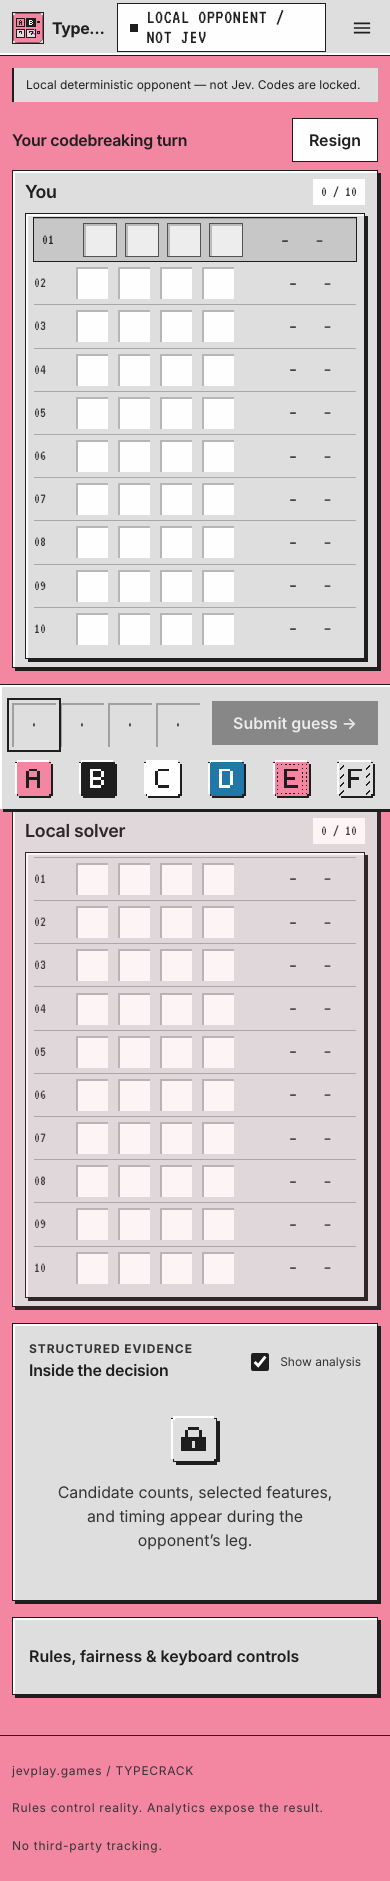
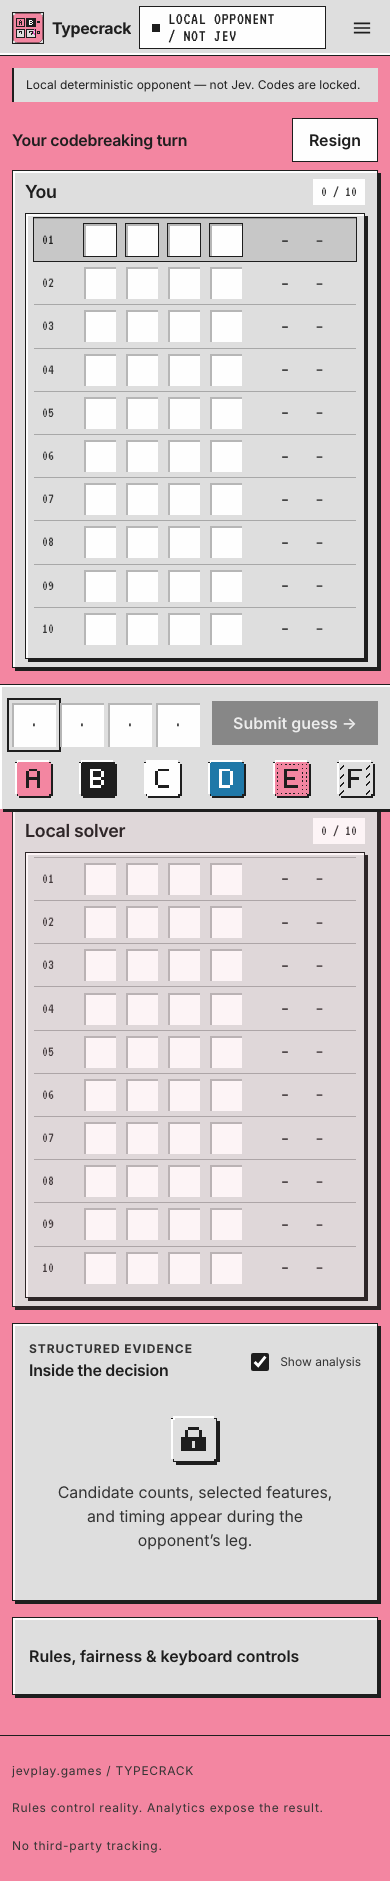
Retake screenshots, remeasure static size, note the review fixes
reports/screenshots/*.png are retaken from a real local run (dev server
on a private port with a scratch DB, local opponent, Playwright
Chromium, full pages scrolled to the top) after the label and layout
fixes; desktop-analytics previously showed "jev · normal".

reports/static-size.json is remeasured (Node zlib, level 9) and now also
lists public/labels.js: JS gzip 24,392 B (was 23,119), CSS 6,966 B (was
6,712). CHANGELOG describes the review fixes under Unreleased.

diff --git a/CHANGELOG.md b/CHANGELOG.md
@@ -2,6 +2,8 @@
 
 ## Unreleased
 
+Final review fixes (issues #13 and #14). Local practice is never presented as Jev: the match-analytics outcome card printed the raw difficulty key and finish reason, so a match against the local solver read "jev · normal"; it now names who played, from the replay's own opponent moves (for example "Local solver, not Jev · Minimax-filtered · Completed"), and the record tables show readable difficulty and result labels instead of `jev` and `jev_break` (`public/labels.js`, `tests/opponent-labels.test.mjs`). Stored keys, exports and cohorts are unchanged. The setup heading and the opponent's board monogram follow the actual opponent. Layout: the result plaque no longer squeezes its text to one word per line beside its buttons, and its text is ink (the muted subtitle was 3.7:1 on the magenta win plaque); the three-column layout fits 1024px instead of scrolling sideways, keeps both boards the same width with every row aligned, and leaves a gap above the evidence panel; the board column header no longer runs "GUESS" into "CODE"; empty guess slots are filled wells; on phones the setup panel leads after New match and the header keeps the game title whole beside the provenance badge. The README banner's CHOICE window now selects the guess being typed (AEBF) and its alt text describes the canonical robot. The browser suite follows the auto-start flow and passes again. Screenshots retaken; static size remeasured.
+
 New pink/ink pixel art (issue #14). The six code symbols A–F are now square pixel keycaps with the letter drawn in the art. Each fill differs in lightness or pattern (pink, ink, paper, blue, pink with dots, grey with hatching), so colour is never the only cue. Blue on D is the only accent colour, and it stays out of the mark, icons, badges and banners, and every letter reaches at least 4.5:1 against its keycap. The hidden code is a padlocked grey keycap. Exact and near feedback are a filled and a hollow ink square. The art replaces the earlier round glossy pegs and black and white key pegs. The app mark, favicon, apple-touch icon and win/draw/loss badges are redrawn as well. The README banner is now `assets/banner.png` (2560×840, replacing `assets/banner.jpg`); `public/brand/og.png` and a new `assets/social-preview.png` are rendered from HTML sources in `assets/src/`. The overlay letter on symbol keycaps is now hidden visually but kept for screen readers. Entropy-chart axis labels are larger below 600px. The screenshots in `reports/screenshots/` were retaken from a real local run.
 
 Renamed Mastermind to **Typecrack** under the jevplay.games brand (issue #13). Display name, page title and meta, header wordmark (`jevplay.games`), footer, Discord command text and launch button, export filenames (`typecrack-*`), package and Worker name (`jev-typecrack`), canonical origin (`https://typecrack.jevplay.games`) and the shared module directory (`public/typecrack/`) change. The opponent is written Jev. Theme moves to the shared pink/ink pixel-window brand with the default ink accent; peg art is unchanged pending the art issue. The D1 database keeps its existing name `mastermind`.
